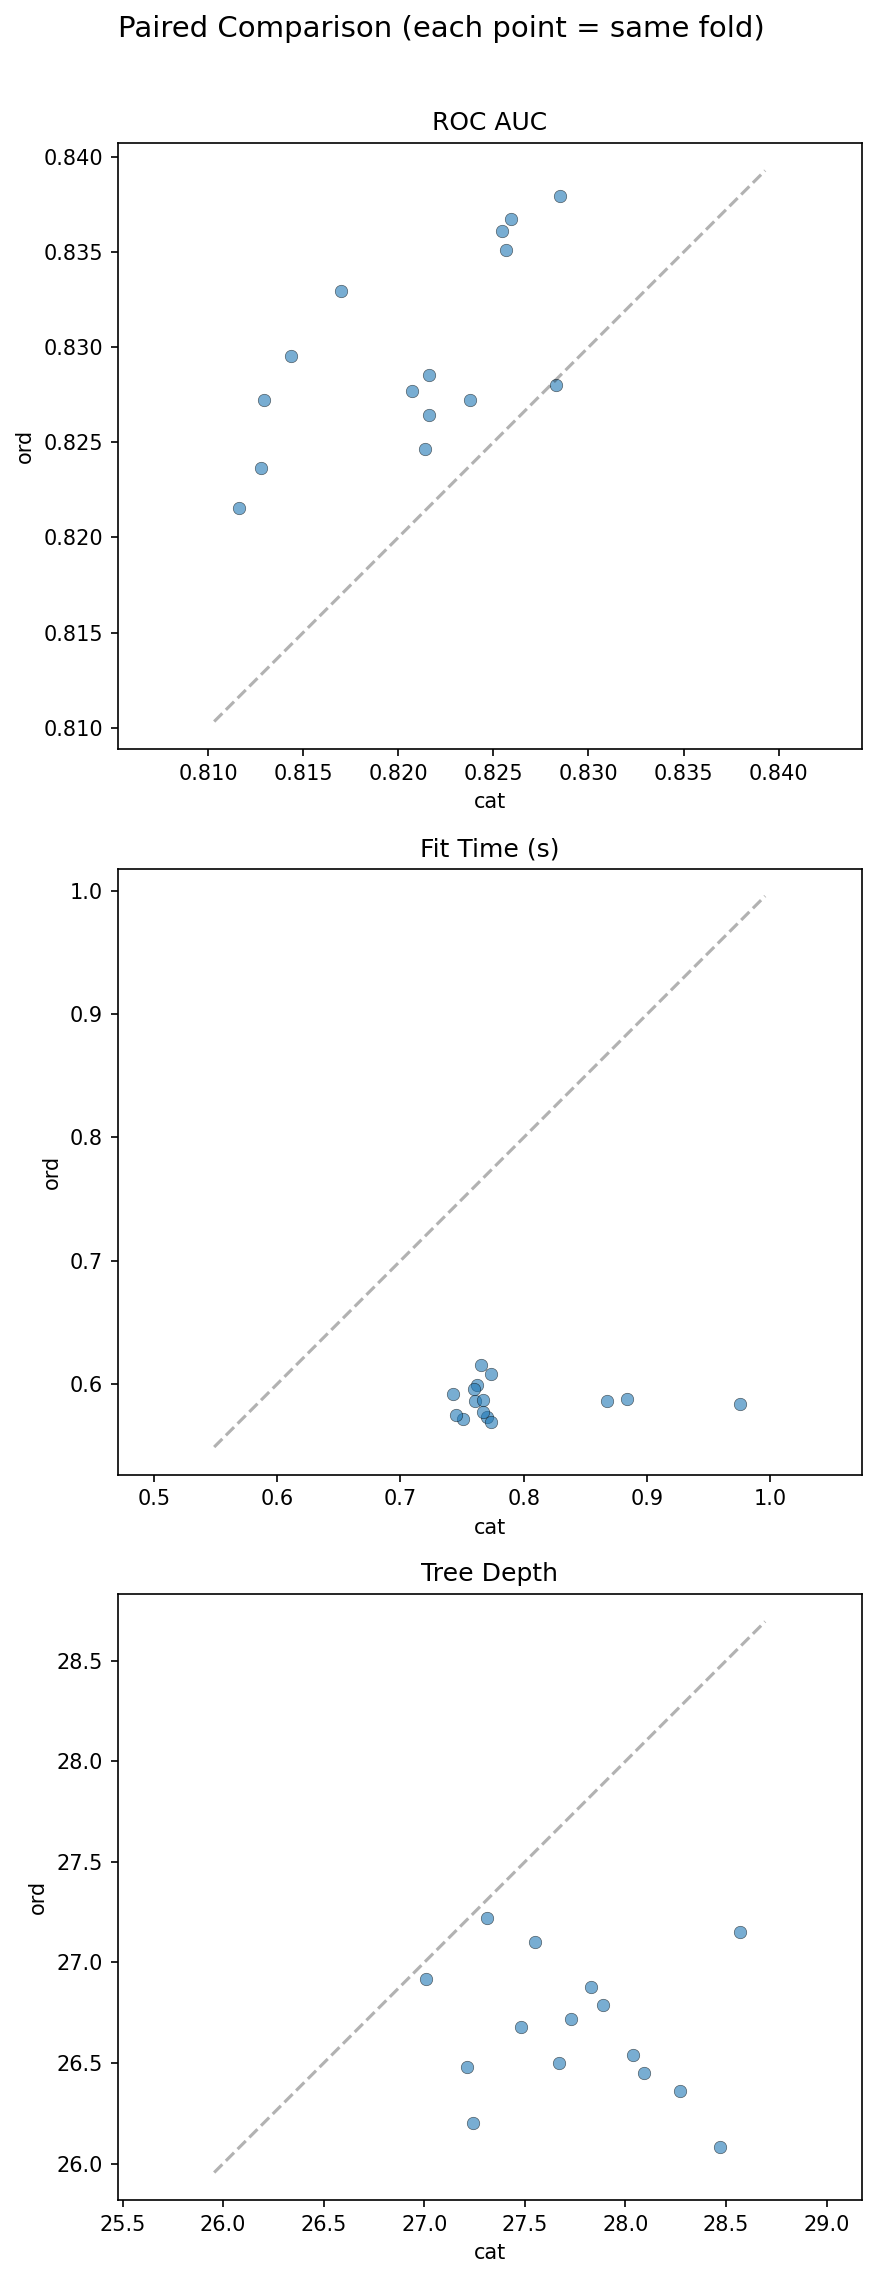
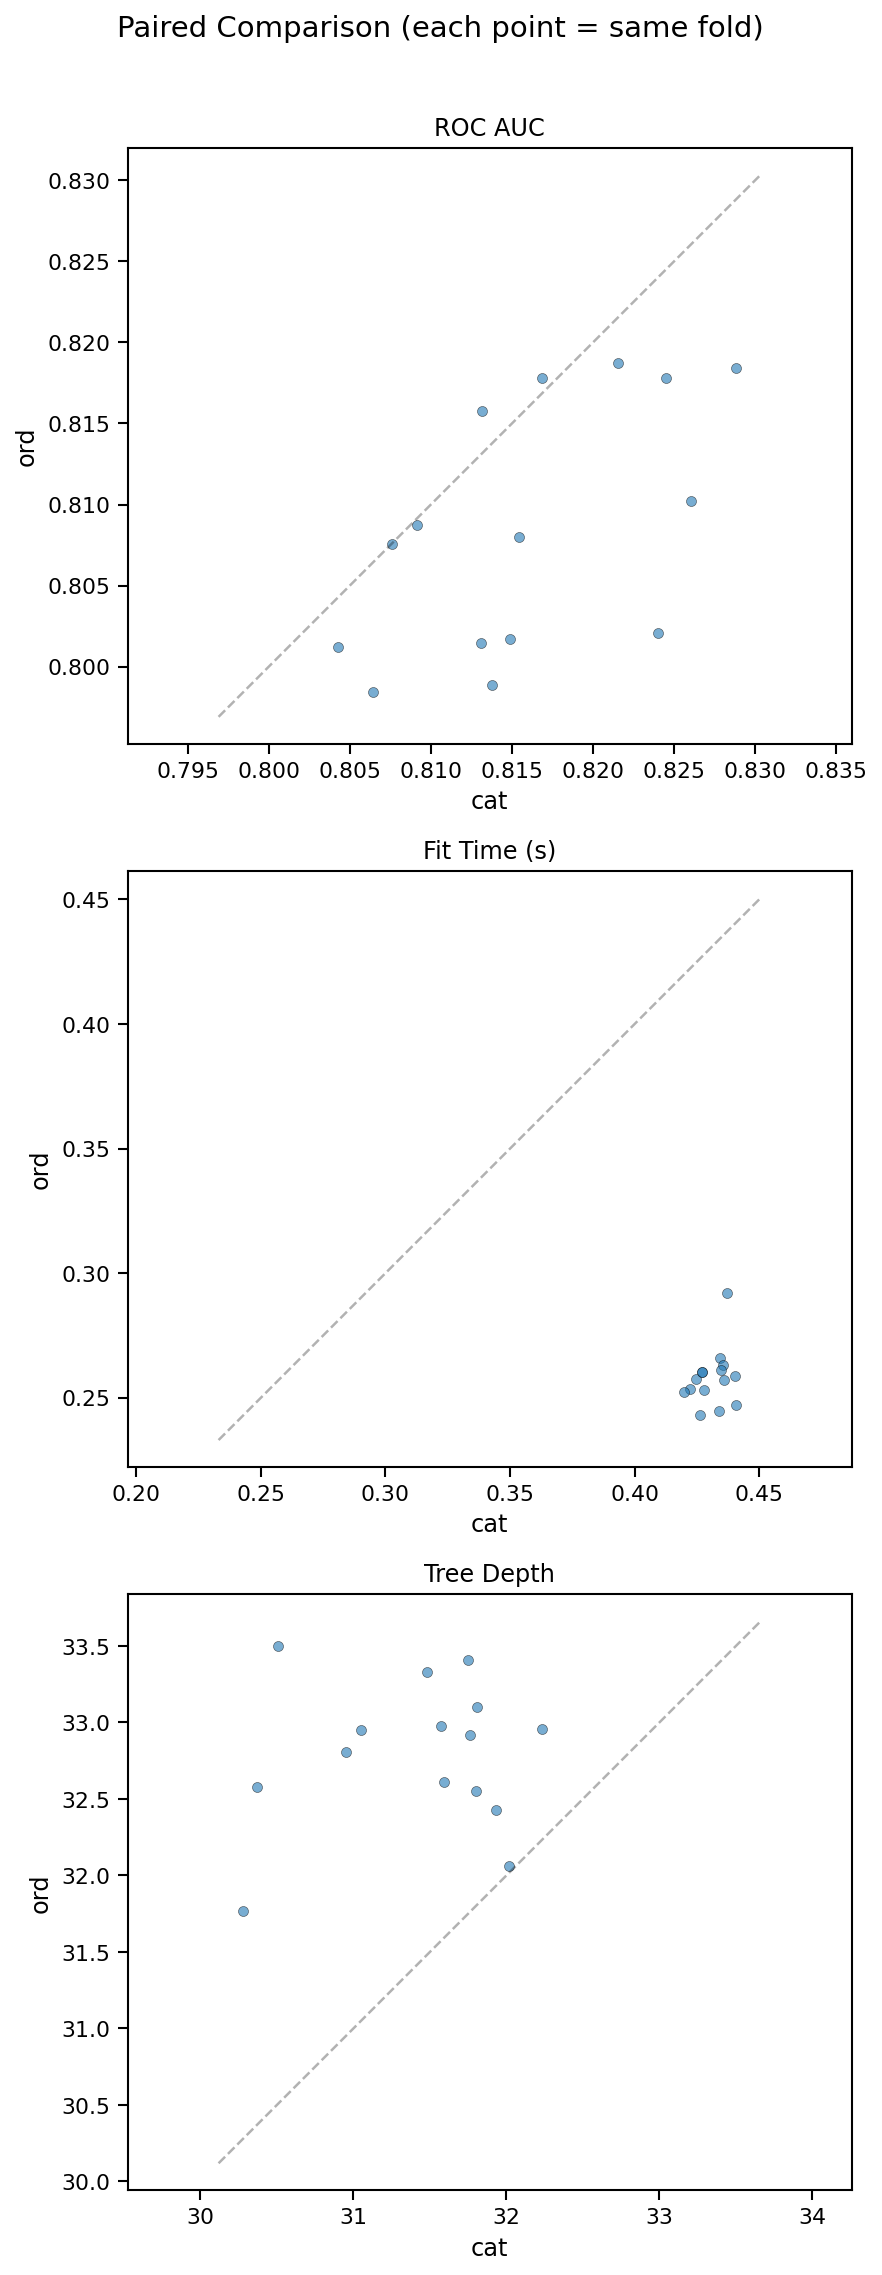
Fix the benchmark

diff --git a/bench_categorical_tree.py b/bench_categorical_tree.py
@@ -33,24 +33,36 @@ MODELS = {
 MAX_CAT_VALUES = 64  # max distinct category values per feature
 
 
-def encode_rare_categories(X_cat, cat_features, max_categories=MAX_CAT_VALUES):
-    """Remap each categorical feature to have at most max_categories values.
+def encode_rare_categories(
+    X_cat, cat_features, max_categories=MAX_CAT_VALUES, random_state=0
+):
+    """Remap each categorical feature to randomized integer codes.
 
-    Keeps the (max_categories - 1) most frequent categories remapped to
-    0..max_categories-2, and maps all remaining rare categories to
-    max_categories - 1.
+    Each feature is encoded into integers in ``[0, max_categories - 1]``.
+    If a feature has more than ``max_categories`` distinct values, keep the
+    ``max_categories - 1`` most frequent categories and merge the remaining
+    rare categories into a single bucket before assigning randomized codes.
     """
     X_out = X_cat.copy()
+    rng = np.random.RandomState(random_state)
     for col in cat_features:
         vals = X_out[:, col].astype(int)
         unique, counts = np.unique(vals, return_counts=True)
         order = np.argsort(-counts)
-        top = unique[order[: max_categories - 1]]
-        mapping = {v: i for i, v in enumerate(top)}
-        rare_code = max_categories - 1
-        X_out[:, col] = np.array(
-            [mapping.get(v, rare_code) for v in vals], dtype=np.float64
-        )
+
+        if unique.size > max_categories:
+            kept = unique[order[: max_categories - 1]]
+            categories_to_encode = kept.tolist() + ["__RARE__"]
+            kept_set = set(kept.tolist())
+            encoded_labels = [v if v in kept_set else "__RARE__" for v in vals]
+        else:
+            categories_to_encode = unique.tolist()
+            encoded_labels = vals
+
+        # Randomized code assignment removes any signal from original/frequency order.
+        code_pool = rng.permutation(max_categories)[: len(categories_to_encode)]
+        mapping = dict(zip(categories_to_encode, code_pool.tolist()))
+        X_out[:, col] = np.array([mapping[v] for v in encoded_labels], dtype=np.float64)
     return X_out
 
 
@@ -89,7 +101,9 @@ def run_benchmark(
     rkf = RepeatedKFold(n_splits=k_folds, n_repeats=n_repeats, random_state=42)
 
     # Base kwargs shared by both models
-    base_kwargs = {"random_state": 42, "max_features": None}
+    base_kwargs = {"random_state": 42, 
+                #    "max_features": None
+                   }
     if model_name == "forest":
         base_kwargs["n_estimators"] = 100
         base_kwargs["n_jobs"] = -1

diff --git a/plot_categorical_bench.py b/plot_categorical_bench.py
@@ -6,9 +6,12 @@ Usage:
 """
 import argparse
 
+import seaborn as sns
 import matplotlib.pyplot as plt
 import numpy as np
 import pandas as pd
+
+sns.set_context('paper', font_scale=1.2)
 
 
 def load_and_concat(files):
@@ -26,7 +29,15 @@ def _boxplot_by_label(ax, df, column, ylabel, title):
             positions=[idx],
             widths=0.4,
             patch_artist=True,
+            showmeans=True,
             boxprops=dict(facecolor=f"C{idx}"),
+            medianprops=dict(color="black", linewidth=1.2),
+            meanprops=dict(
+                marker="D",
+                markerfacecolor="white",
+                markeredgecolor="black",
+                markersize=5,
+            ),
         )
     ax.set_xticks(range(len(labels)))
     ax.set_xticklabels(labels)
